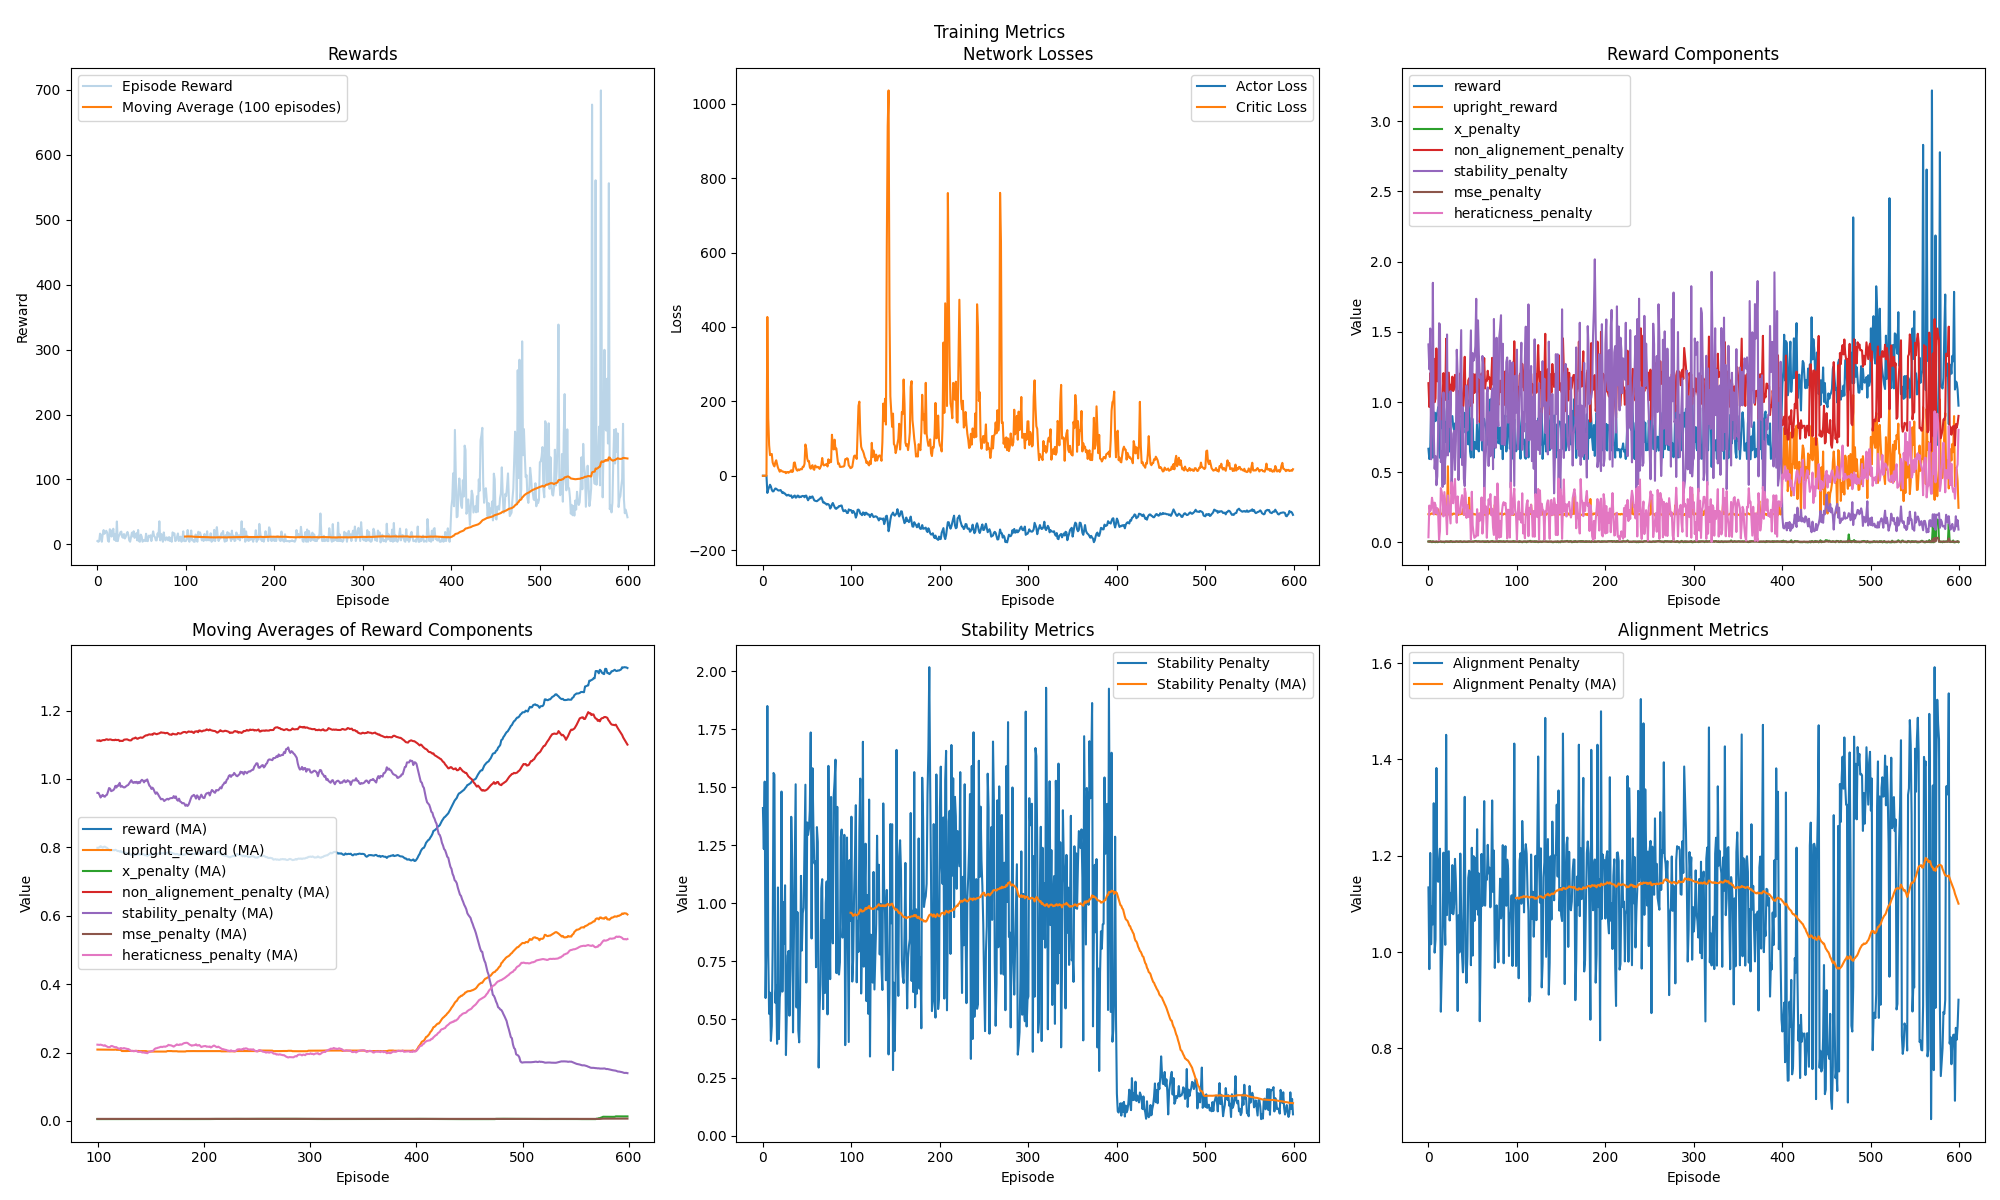
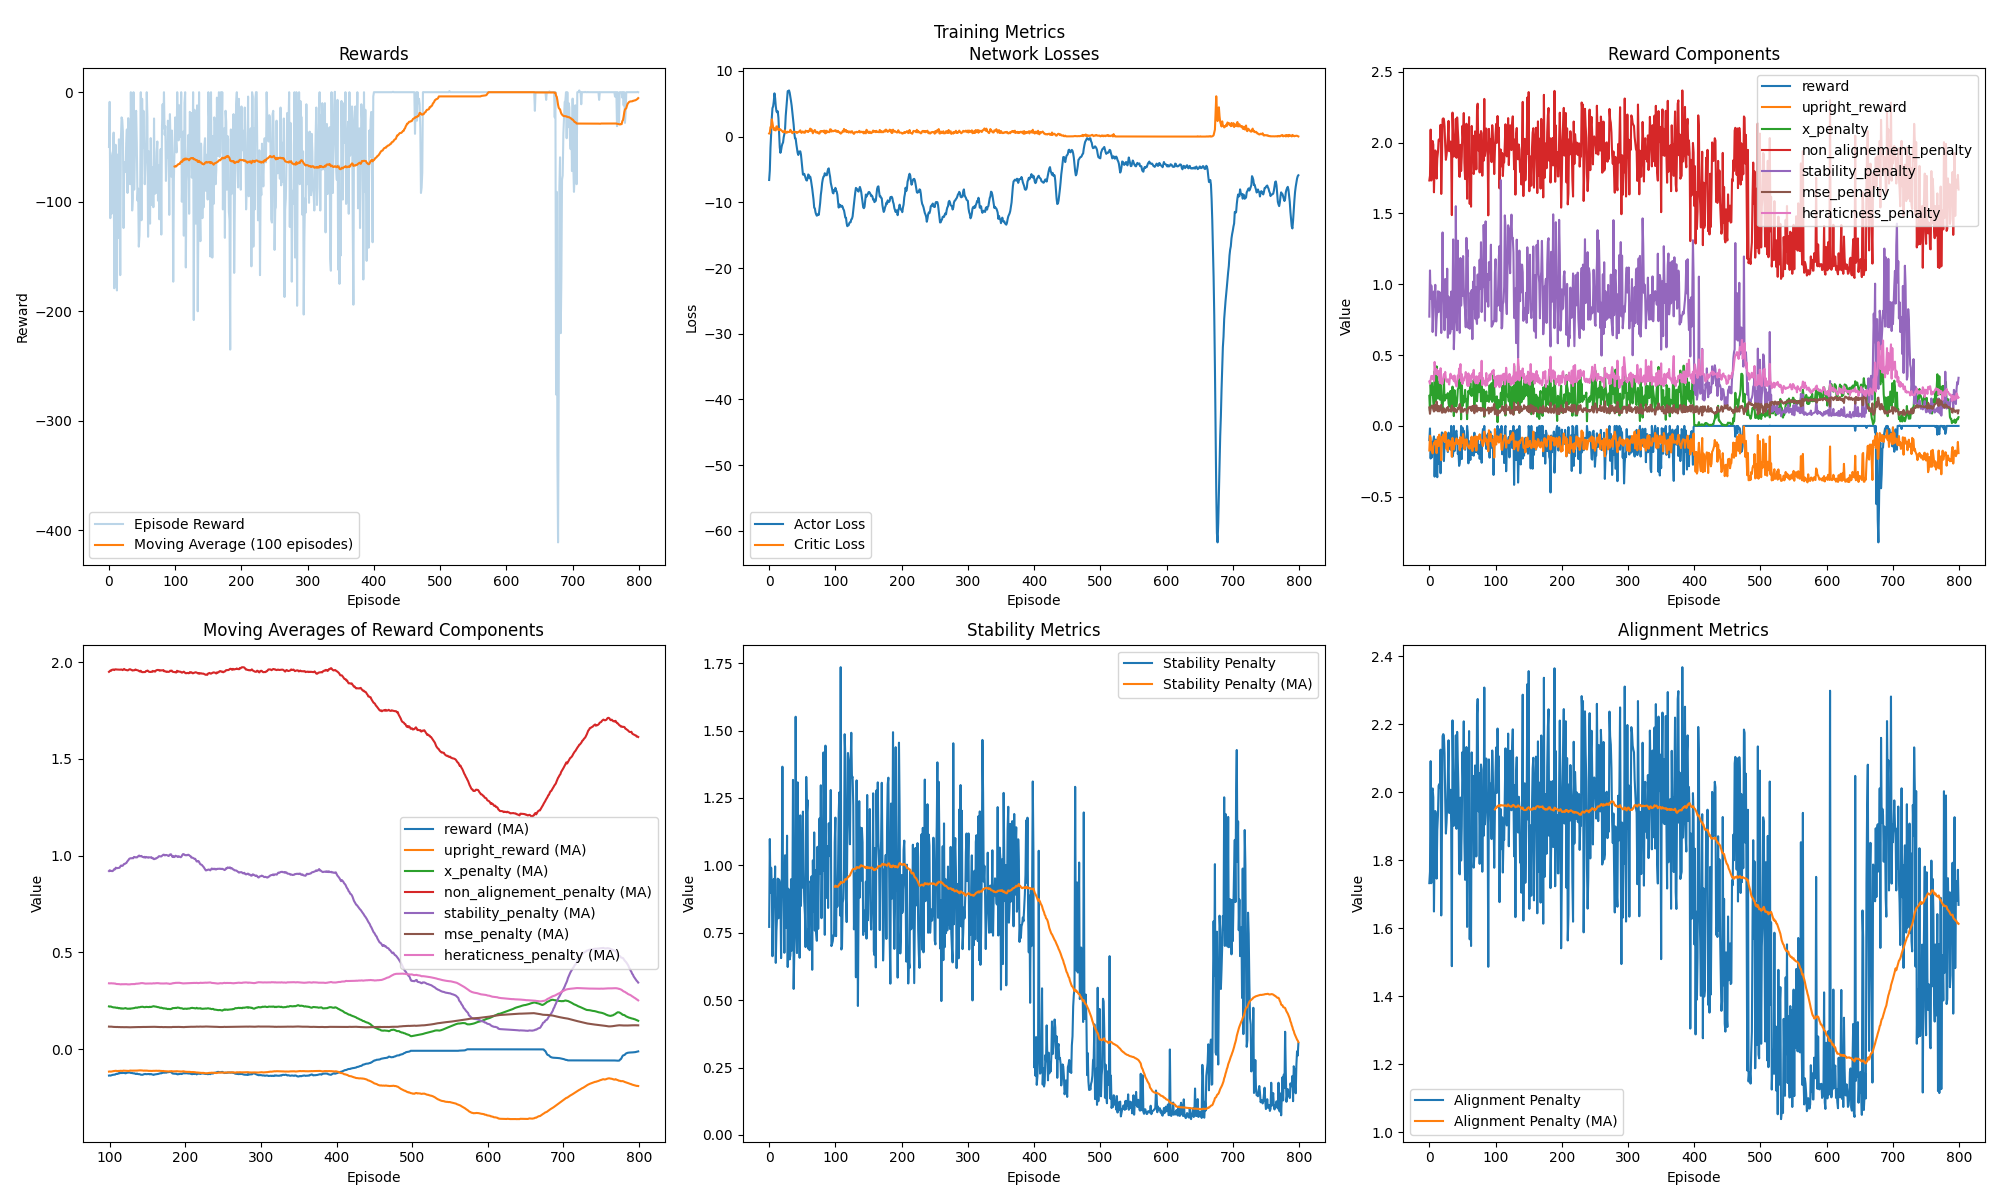
minor fixes

diff --git a/reward.py b/reward.py
@@ -218,19 +218,19 @@ class RewardManager:
         self.old_heraticness_penalty = heraticness_penalty
         
         # Compute the score
-        reward = self.time_over_threshold / (1 + self.smoothed_variation) + max(end_node_y * 5, 0) 
+        reward = self.time_over_threshold / (1 + self.smoothed_variation)
 
         # Normalize reward
-        reward = (1 + (reward / 25) * ((2 * np.pi) ** (-0.5) * np.exp(-(x) ** 2)) / 5) ** 2 
+        reward = (1 + (reward / 25) * ((2 * np.pi) ** (-0.5) * np.exp(-(x) ** 2)) / 5) ** 2 - 1
         
         # Cap reward
-        reward = min(reward, 5) - border_penalty - x_nodes_penalty - heraticness_penalty * 0.05
+        reward = min(reward, 5) - border_penalty + end_node_y * 0.1  # - x_nodes_penalty - heraticness_penalty * 0.05
 
         # Apply termination penalty
         if terminated:
             reward -= self.termination_penalty
 
-        if end_node_y < self.max_height * self.threshold_ratio * 0.85:
+        if end_node_y < self.max_height * self.threshold_ratio * 0.85 and False :
             self.force_terminated = True
             reward -= 3
         

diff --git a/tp_env.py b/tp_env.py
@@ -140,7 +140,7 @@ class TriplePendulumEnv:
     def reset(self):
         # Initialisation de l'état
         position_initiale_chariot = 0.0
-        rd_angle = pi/2 + rd.randint(-1, 1) * pi/32
+        rd_angle = rd.randint(-1, 1) * pi
         angles_initiaux = [rd_angle] + [rd_angle] * (len(self.positions) - 2)
         vitesses_initiales = 0.0
         state = hstack((

diff --git a/config.py b/config.py
@@ -8,7 +8,7 @@ config = {
     'buffer_capacity': 25_000,
     'updates_per_episode': 10,
     'load_models': False,
-    'num_nodes': 3,
+    'num_nodes': 2,
     'gravity': 9.81,
     'friction_coefficient': 0.1,
     
